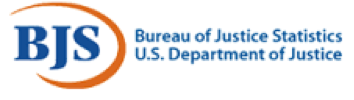
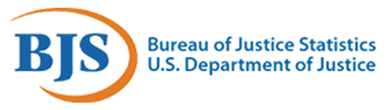
new bjs image, adjusting sizing and spacing

Changed region(s): [[0.0311, 0.0, 0.9944, 0.96], [0.0, 0.18, 0.0311, 0.21]]

diff --git a/web/nibrs-web/src/main/resources/templates/fragments/header.html b/web/nibrs-web/src/main/resources/templates/fragments/header.html
@@ -39,14 +39,15 @@
 	<nav class="navbar navbar-default" th:fragment="header">
 		<div class="container-fluid">
 			<div class="row">
-			  <div class="col-sm-2"><img th:src="@{/images/search.png}" height="40px"/></div>
+			  <div class="col-sm-2"><img th:src="@{/images/search.png}" height="60px"/></div>
 			  <div class="col-sm-8" align="center">
-		  			<img th:src="@{/images/ncsxlogo.jpeg}" height="27px" style="padding-top: 3px;"/><br/>
+		  			<img th:src="@{/images/ncsxlogo.jpeg}" height="60px" style="padding-top: 3px;"/><br/>
 					<strong>The National Incident-Based Reporting System</strong> 
 			  </div>
-			  <div class="col-sm-2"><img th:src="@{/images/bjs.png}" height="40px"/></div>
+			  <div class="col-sm-2"><img th:src="@{/images/bjs.png}" height="60px"/></div>
 			</div>
 		</div>
+
 		<div class="container">
 		  <!-- Brand and toggle get grouped for better mobile display -->
 		  <div class="navbar-header">
@@ -60,7 +61,7 @@
 		
 		  <!-- Collect the nav links, forms, and other content for toggling -->
 		  <strong id="version-alert"> (NIBRS) Pre-Certification Tool <span style="color:#659EC7; font-size:small;">(Beta Version)</span></strong>
-		 
+		 <hr/>
 		  <div class="collapse navbar-collapse" id="bs-example-navbar-collapse-1">
 				<ul class="nav navbar-nav navbar-right">
 				  <li><a th:href="@{/}">Home</a></li>
